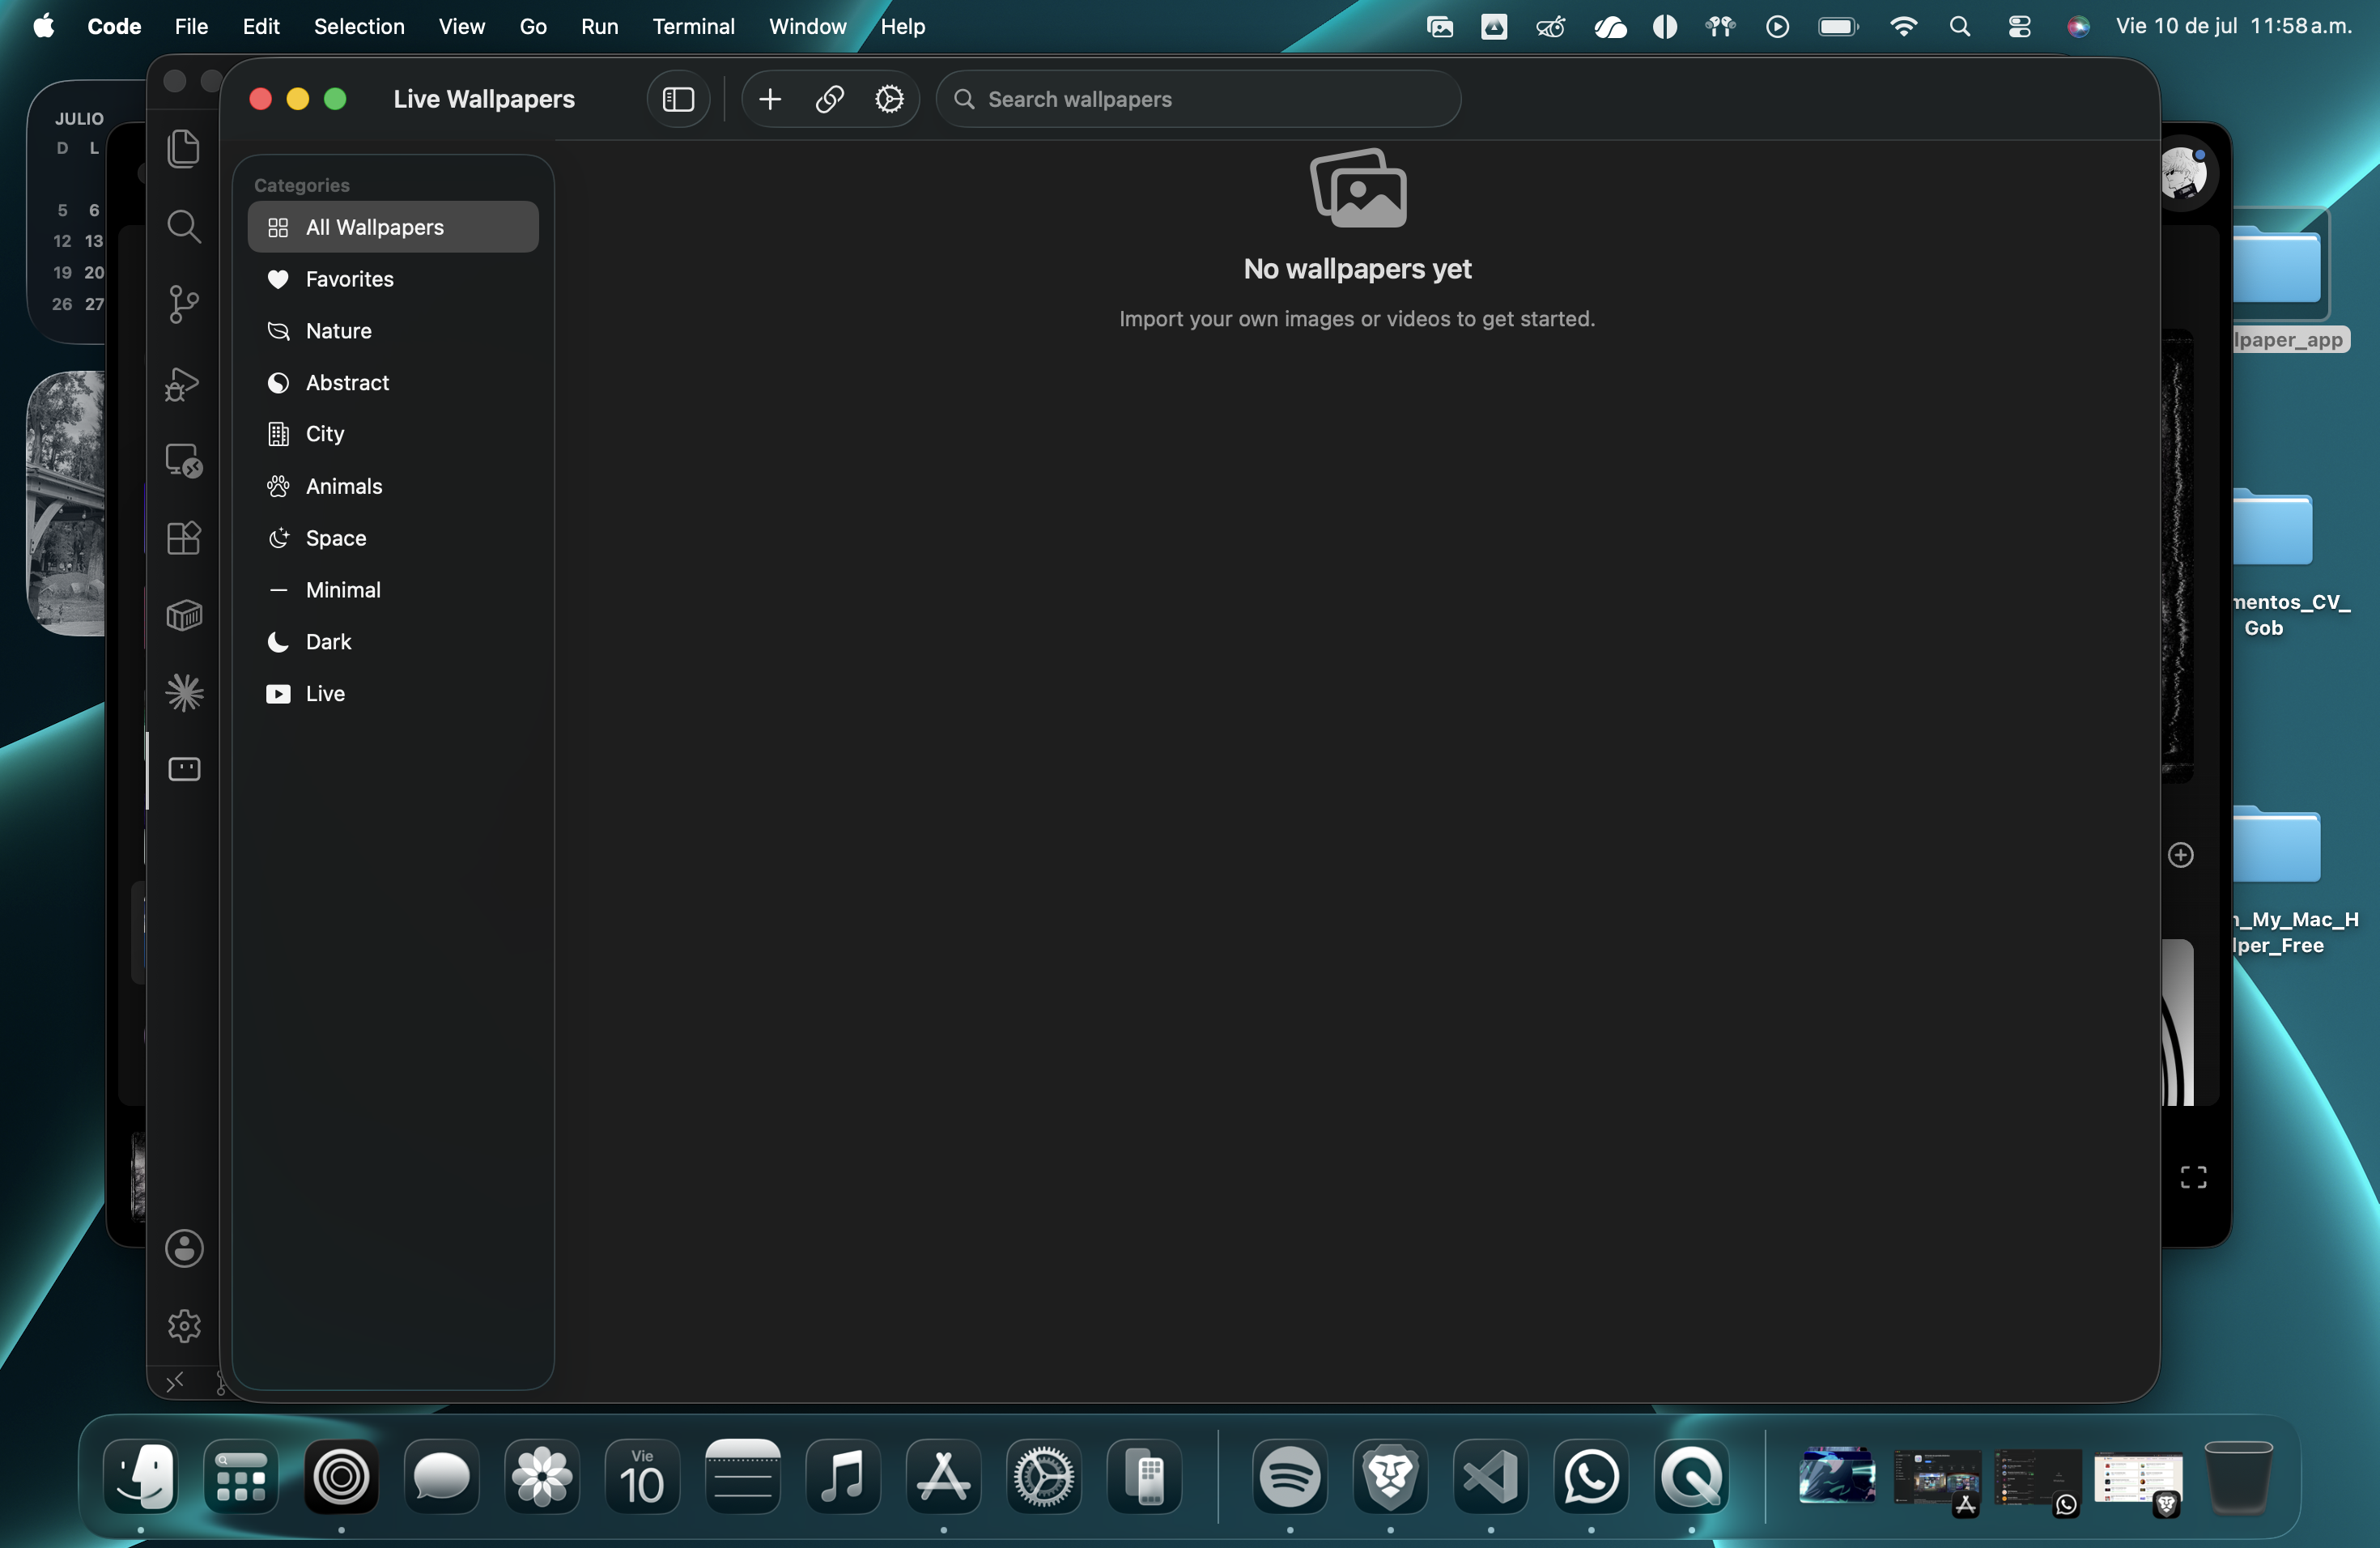
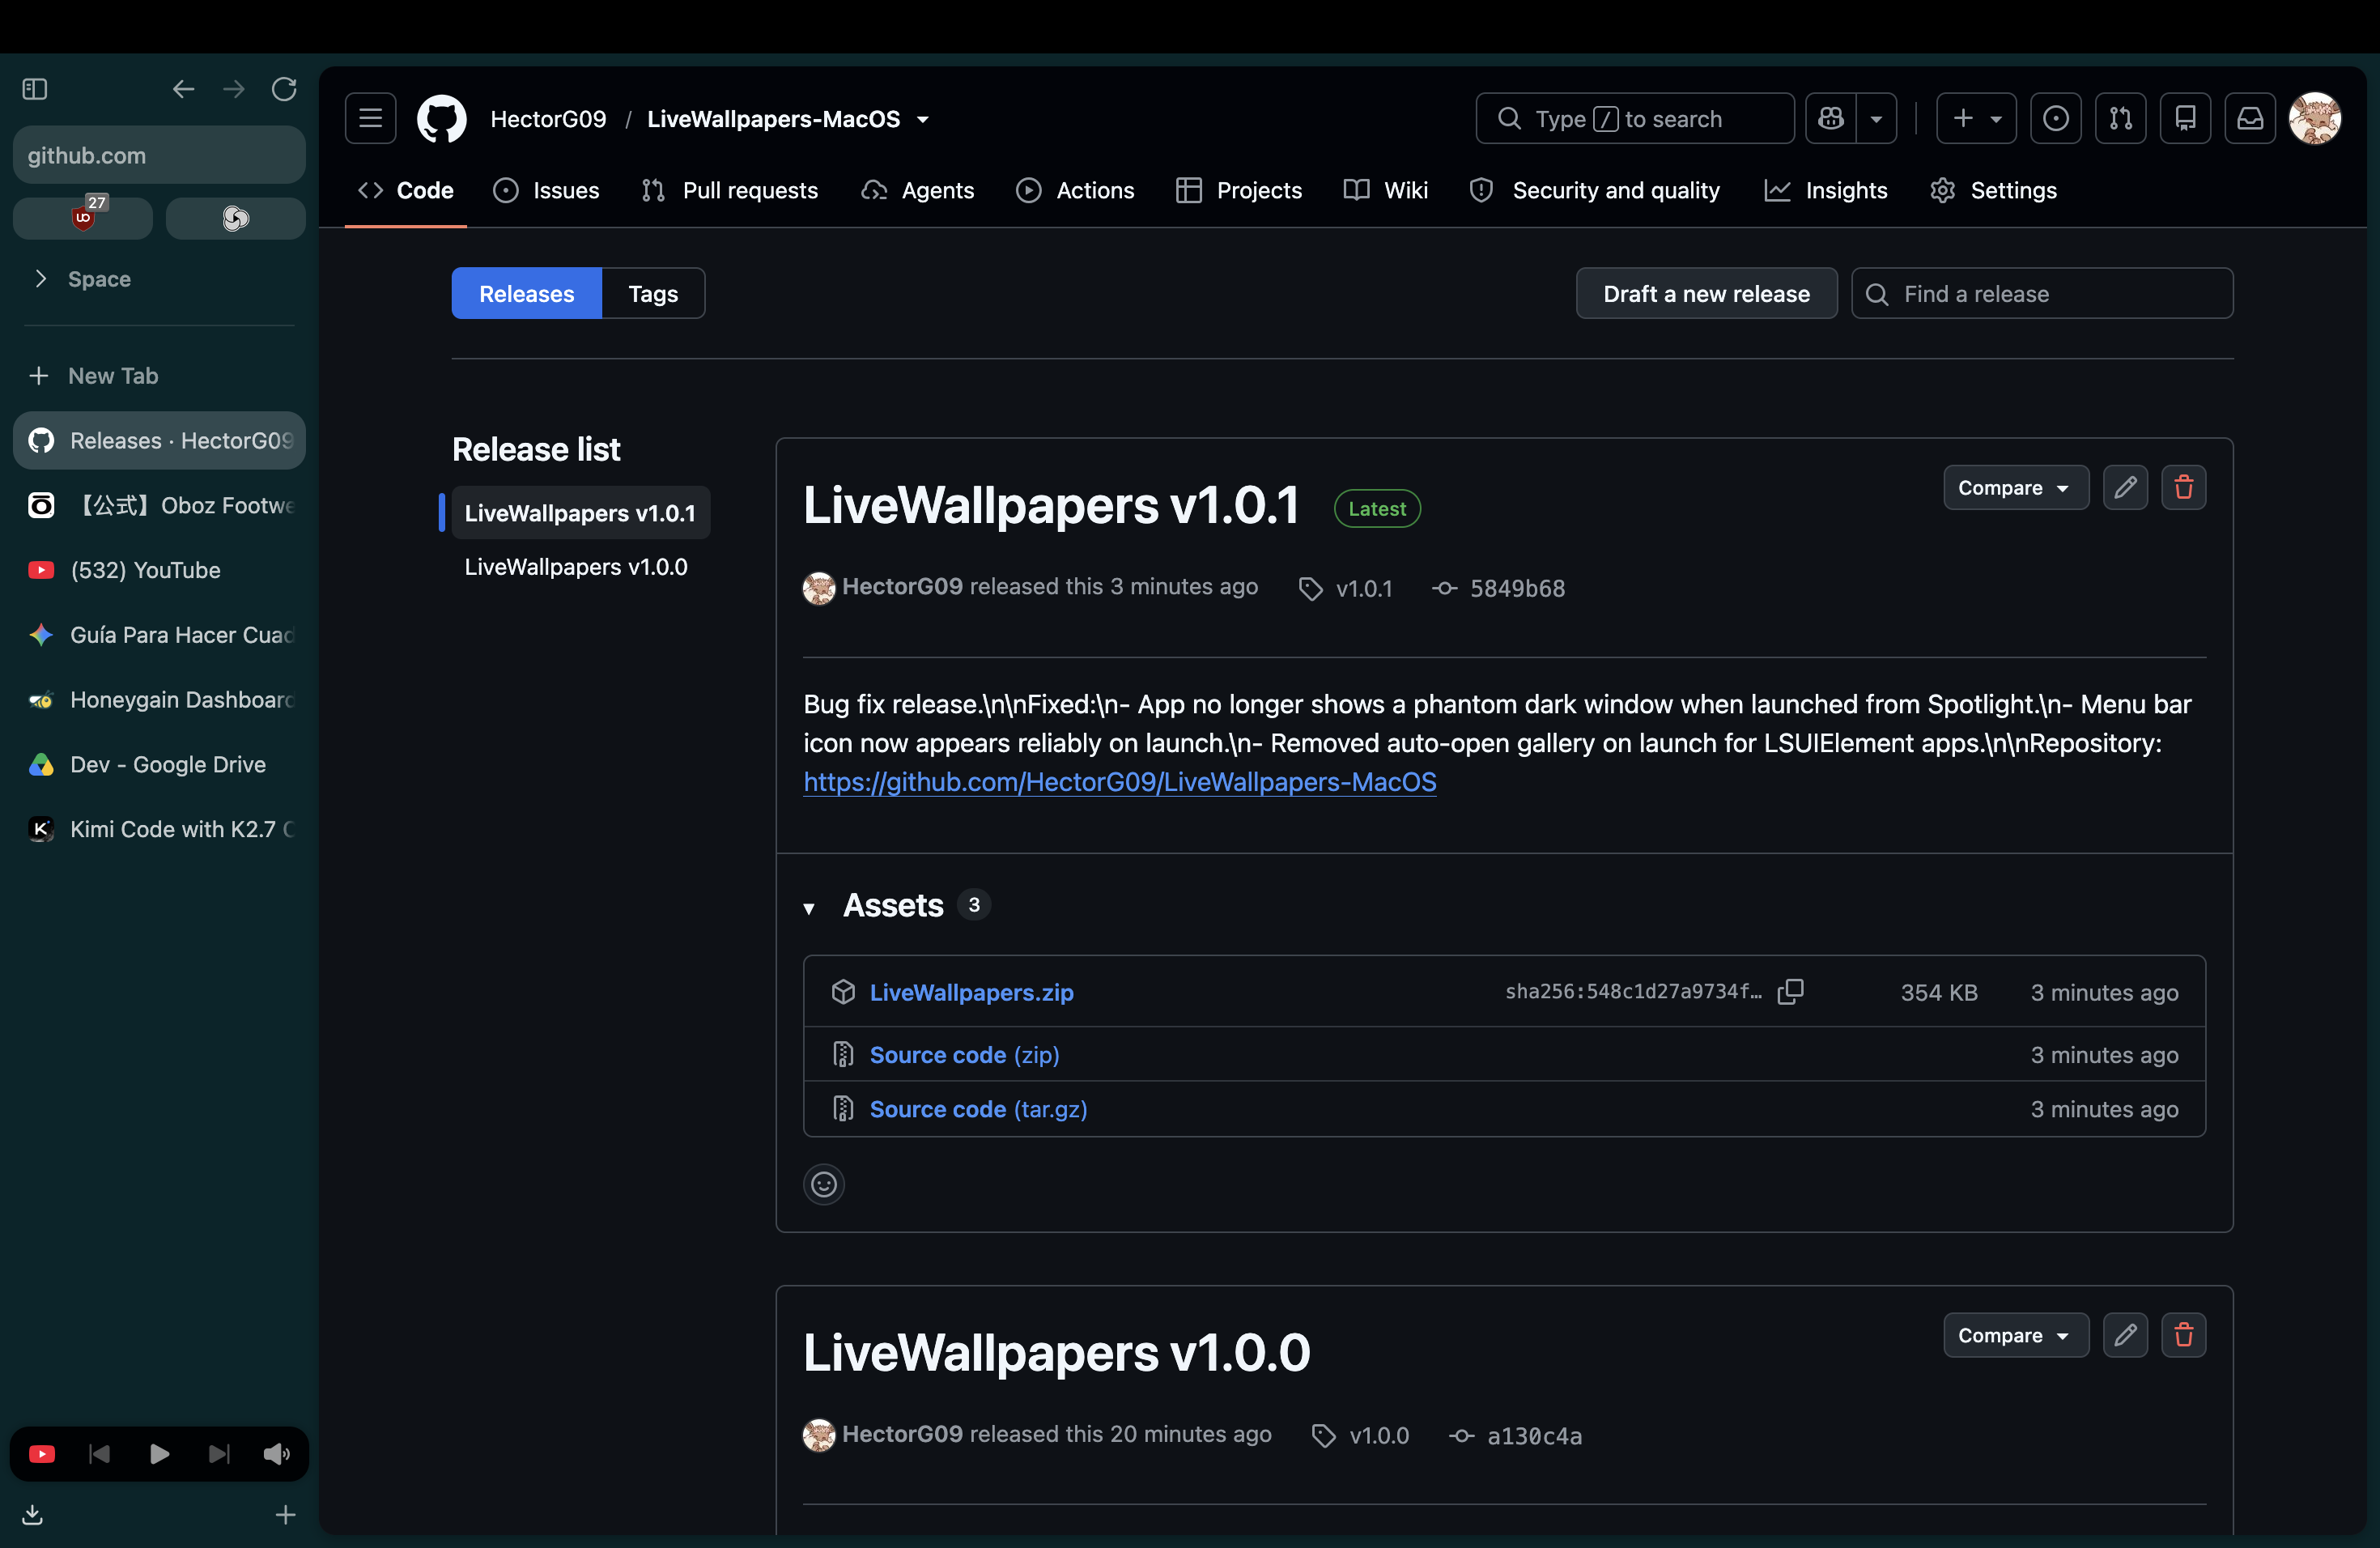
Add screenshots to README

diff --git a/README.md b/README.md
@@ -26,6 +26,12 @@ A native macOS live wallpaper app inspired by Wallper.app. Browse, import, and a
 - Xcode 16+ or Swift 6.0+ toolchain.
 - For distribution outside the Mac App Store: code signing + notarization.
 
+## Screenshots
+
+![Gallery](Screenshots/gallery.png)
+
+![Settings](Screenshots/settings.png)
+
 ## Download
 
 The latest compiled app is available in the [Releases](https://github.com/HectorG09/LiveWallpapers-MacOS/releases) section: